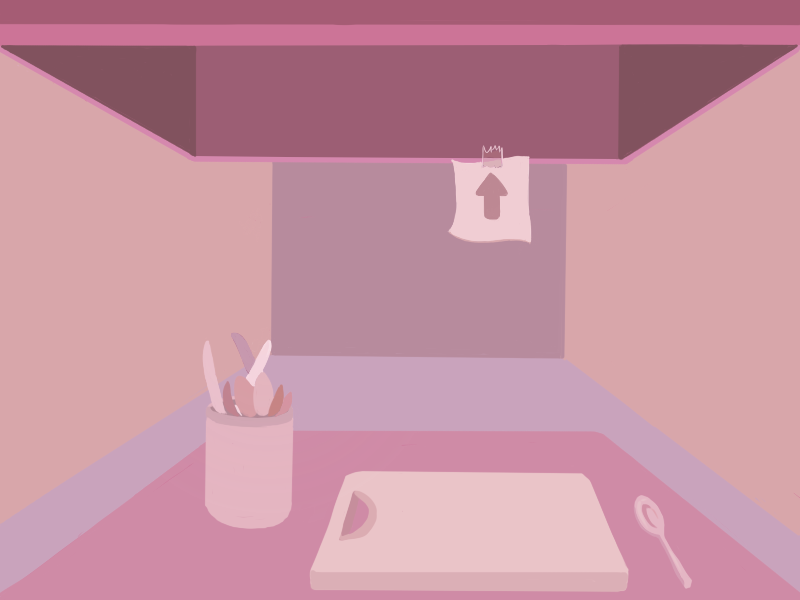
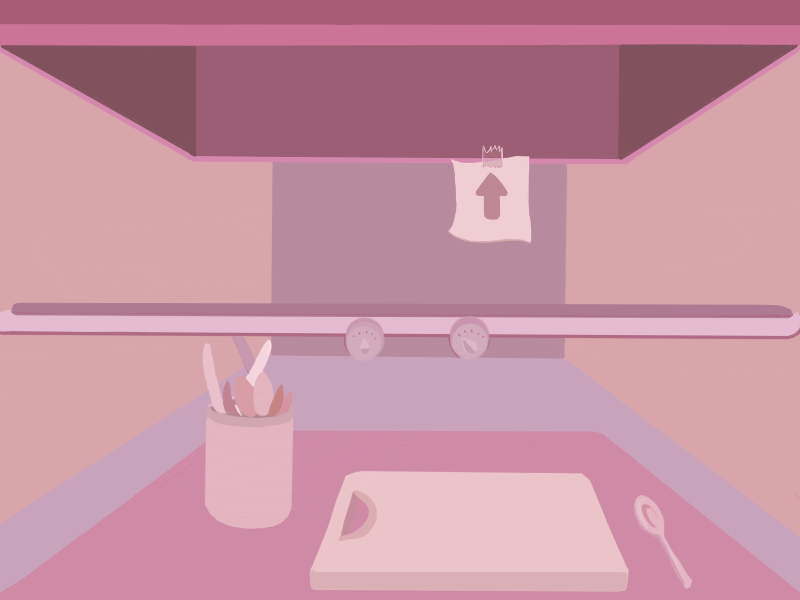
added oven and little fuel label

Changed region(s): [[0.0, 0.48, 1.0, 0.6]]

diff --git a/js/PongScene/Ball.js b/js/PongScene/Ball.js
@@ -29,7 +29,6 @@ function Ball(canvas) {
         }
 
         if (this.ballY <= 0) {
-            
             foodInPlay = false;
             if (launchMeatMode) {
                 if (this.cookedLevel <= 2) {
@@ -51,6 +50,7 @@ function Ball(canvas) {
             }
             launchPlantMode = false;
             launchMeatMode = false;
+            //screenshake(5);
             return; 
         } 
         

diff --git a/js/PongScene/Kitchen.js b/js/PongScene/Kitchen.js
@@ -18,7 +18,7 @@ function kitchenStuff() {
     colorRect(paddle2X, paddle2Y, PADDLE_THICKNESS, PADDLE_HEIGHT, "white");
 
     //laser / net / fire / what?
-    colorRect(0, canvas.height/2, canvas.width, 2, "red");
+    //colorRect(0, canvas.height/2, canvas.width, 3, "#aa4c53");
 }
 
 /*function drawFullnessLevel() {

diff --git a/js/PongScene/Paddle.js b/js/PongScene/Paddle.js
@@ -2,7 +2,7 @@ const PADDLE_HEIGHT = 20;
 const PADDLE_THICKNESS = 100;
 const PADDLE_DIST_FROM_EDGE = 60;
 const PADDLE_SPEED = 20;
-const COMPUTER_PADDLE_SPEED = 10;
+const COMPUTER_PADDLE_SPEED = 8;
 
 var paddle1X = 400 - PADDLE_THICKNESS/2,
     paddle1Y = 600 - PADDLE_DIST_FROM_EDGE;

diff --git a/js/Main/Main.js b/js/Main/Main.js
@@ -63,6 +63,9 @@ function drawAll() {
 	    //timer.alertMessage();
 	    //drawFullnessLevel();
     }*/
+     if (!mainMenuState && !gameOverState && !helpState) {
+        colorText("Fuel:", 345, 27, "white", "14px Arial", "center", 1);
+    }
 }
 
 function checkFuelMeter() {
